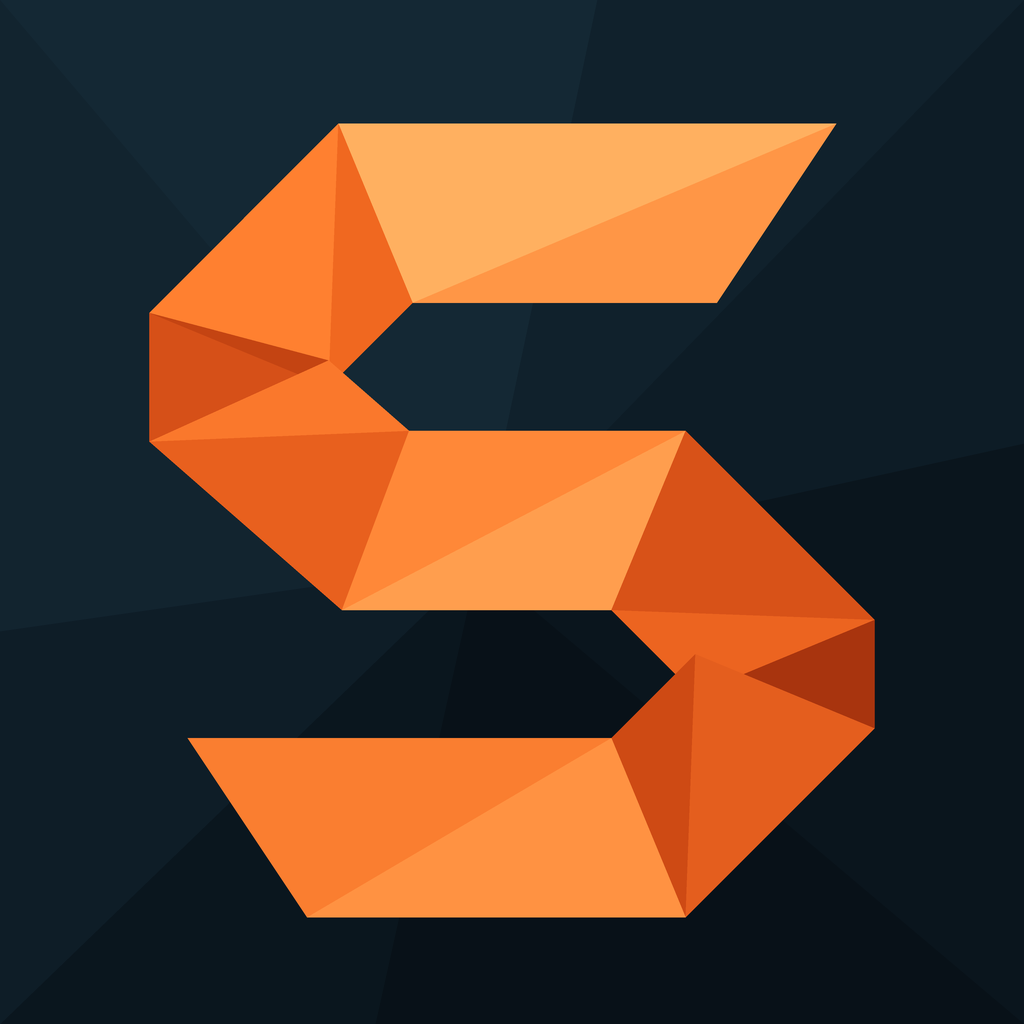
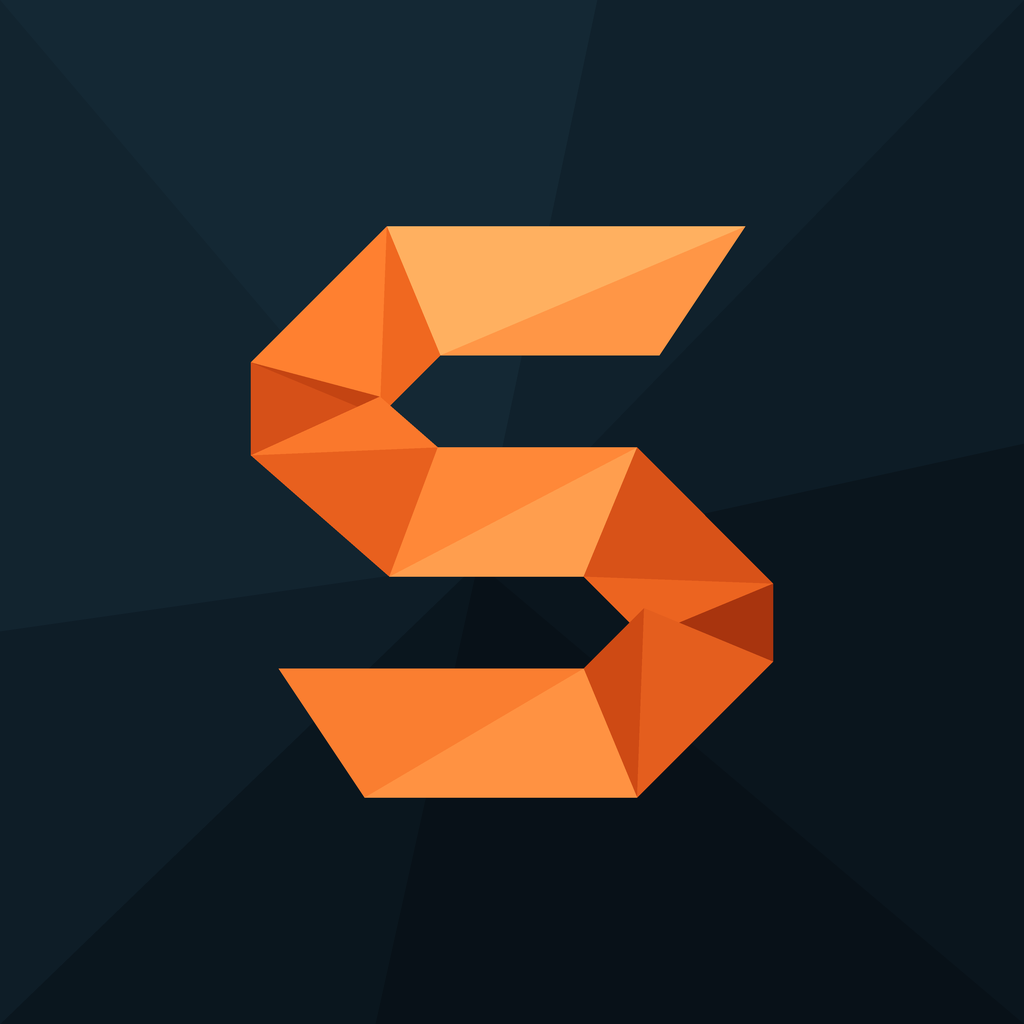
minor

Changed region(s): [[0.125, 0.0938, 0.875, 0.9062]]

diff --git a/brand/unity-profile-texts.md b/brand/unity-profile-texts.md
@@ -1,0 +1,30 @@
+# Unity Asset Store publisher profile — Sug's LowPoly
+
+Texts for the "Introduction" section of the publisher profile. The portal limits are 60 characters for the headline and 300 for the paragraph; the counts below include spaces.
+
+## Headline (pick one)
+
+1. `Game-ready low-poly assets that drop in and just work` (53)
+2. `Low-poly game assets with consistent pivots and honest specs` (60)
+3. `Light, stylized low-poly packs built to be used right away` (58)
+
+## Paragraph
+
+Recommended once the first pack is live (292):
+
+```
+Sug's LowPoly makes lightweight, stylized 3D packs for Unity. Every asset follows the same rules: pivots where a hand or socket goes, real-world scale, URP-ready PBR materials, and triangle counts and sizes listed up front. First release: Low Poly Enemy Melee Weapons, 50 weapons and shields.
+```
+
+Version that does not name a pack (295):
+
+```
+Lightweight, stylized 3D packs for Unity, made to be used right away. Every asset follows the same rules: pivots where a hand or socket goes, real-world scale, URP-ready PBR materials, and triangle counts and sizes listed up front. A small catalogue with strict conventions and support by email.
+```
+
+## Images
+
+| Field | File | Notes |
+|---|---|---|
+| Profile picture | `publisher-profile-1024.png` | Square, 1024 x 1024. The store shows it as a small circle (44 px on the publisher page), so the mark sits inside the circle with room to spare |
+| Promo banner | `promo-banner-1920x1080.png` | 16:9, the exact shape of the banner slot on the publisher page. Choose "Image upload" in the Promo banner section |
